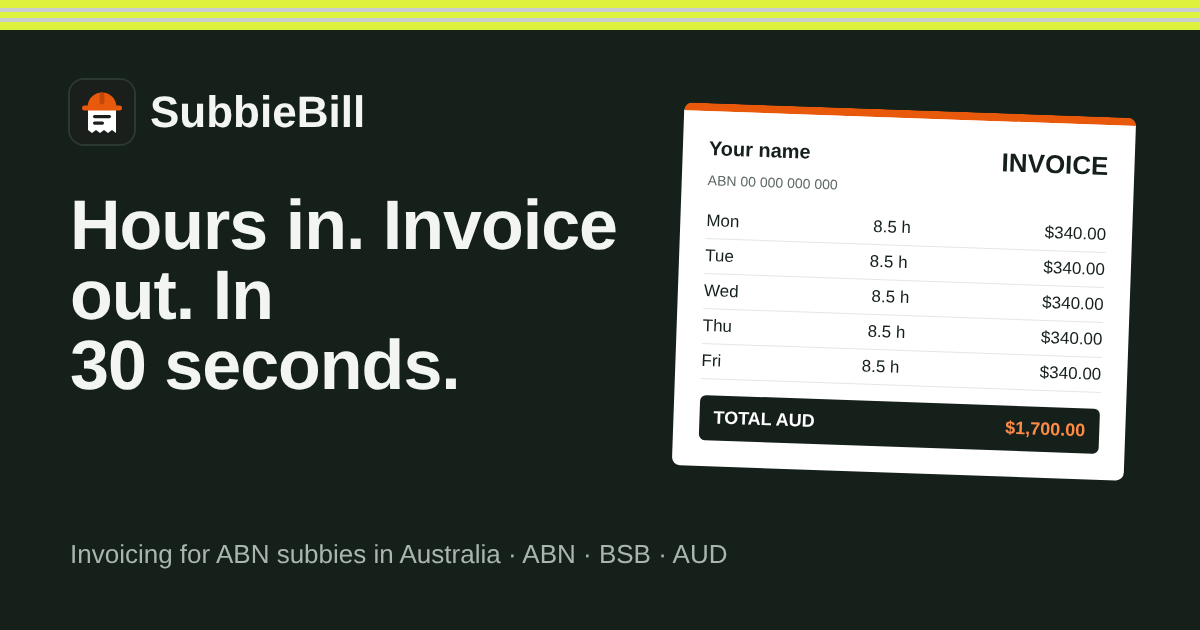
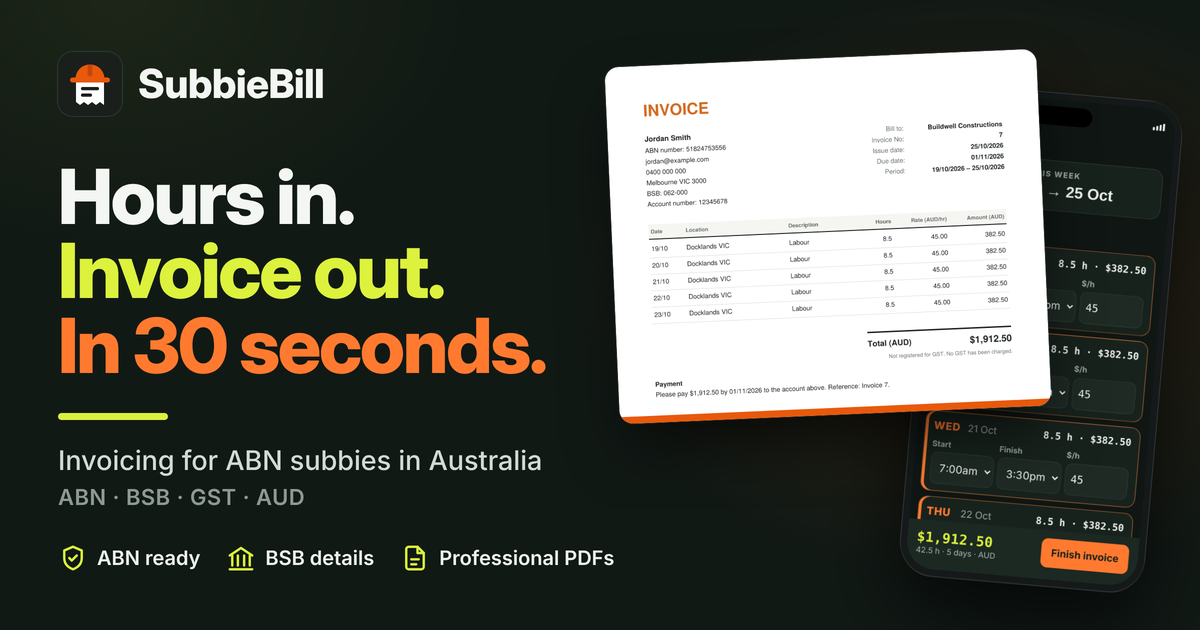
Add files via upload

diff --git a/gst-for-subcontractors.html b/gst-for-subcontractors.html
@@ -7,13 +7,13 @@
 <title>Do Subcontractors Charge GST in Australia? (Simple Guide) · SubbieBill</title>
 <meta name="description" content="When ABN subcontractors in Australia must register for GST, how to add GST to an invoice, and what changes if you are not registered. Simple examples.">
 <link rel="canonical" href="https://subbiebill.com/gst-for-subcontractors.html">
-<meta property="og:type" content="article"><meta property="og:title" content="Do Subcontractors Charge GST in Australia? (Simple Guide)"><meta property="og:description" content="When ABN subcontractors in Australia must register for GST, how to add GST to an invoice, and what changes if you are not registered. Simple examples."><meta property="og:url" content="https://subbiebill.com/gst-for-subcontractors.html"><meta property="og:image" content="https://subbiebill.com/og.png?v=2">
-<meta property="og:image:secure_url" content="https://subbiebill.com/og.png?v=2">
+<meta property="og:type" content="article"><meta property="og:title" content="Do Subcontractors Charge GST in Australia? (Simple Guide)"><meta property="og:description" content="When ABN subcontractors in Australia must register for GST, how to add GST to an invoice, and what changes if you are not registered. Simple examples."><meta property="og:url" content="https://subbiebill.com/gst-for-subcontractors.html"><meta property="og:image" content="https://subbiebill.com/og.png?v=3">
+<meta property="og:image:secure_url" content="https://subbiebill.com/og.png?v=3">
 <meta property="og:image:type" content="image/png">
 <meta property="og:image:width" content="1200">
 <meta property="og:image:height" content="630">
 <meta property="og:image:alt" content="SubbieBill: hours in, invoice out in 30 seconds">
-<meta name="twitter:image" content="https://subbiebill.com/og.png?v=2">
+<meta name="twitter:image" content="https://subbiebill.com/og.png?v=3">
[1 lines of base64/hex data omitted]
 <link rel="preconnect" href="https://fonts.googleapis.com"><link rel="preconnect" href="https://fonts.gstatic.com" crossorigin>
 <link rel="stylesheet" href="https://fonts.googleapis.com/css2?family=Archivo:wght@400;600;700;800&family=Big+Shoulders+Display:wght@900&family=IBM+Plex+Mono:wght@400;600&display=swap">

diff --git a/subbiebill-vs-excel-vs-xero.html b/subbiebill-vs-excel-vs-xero.html
@@ -7,13 +7,13 @@
 <title>SubbieBill vs Excel vs Xero for Subcontractor Invoices · SubbieBill</title>
 <meta name="description" content="An honest comparison of three ways to invoice as an ABN subcontractor in Australia: a spreadsheet template, Xero accounting software, or SubbieBill.">
 <link rel="canonical" href="https://subbiebill.com/subbiebill-vs-excel-vs-xero.html">
-<meta property="og:type" content="article"><meta property="og:title" content="SubbieBill vs Excel vs Xero for Subcontractor Invoices"><meta property="og:description" content="An honest comparison of three ways to invoice as an ABN subcontractor in Australia: a spreadsheet template, Xero accounting software, or SubbieBill."><meta property="og:url" content="https://subbiebill.com/subbiebill-vs-excel-vs-xero.html"><meta property="og:image" content="https://subbiebill.com/og.png?v=2">
-<meta property="og:image:secure_url" content="https://subbiebill.com/og.png?v=2">
+<meta property="og:type" content="article"><meta property="og:title" content="SubbieBill vs Excel vs Xero for Subcontractor Invoices"><meta property="og:description" content="An honest comparison of three ways to invoice as an ABN subcontractor in Australia: a spreadsheet template, Xero accounting software, or SubbieBill."><meta property="og:url" content="https://subbiebill.com/subbiebill-vs-excel-vs-xero.html"><meta property="og:image" content="https://subbiebill.com/og.png?v=3">
+<meta property="og:image:secure_url" content="https://subbiebill.com/og.png?v=3">
 <meta property="og:image:type" content="image/png">
 <meta property="og:image:width" content="1200">
 <meta property="og:image:height" content="630">
 <meta property="og:image:alt" content="SubbieBill: hours in, invoice out in 30 seconds">
-<meta name="twitter:image" content="https://subbiebill.com/og.png?v=2">
+<meta name="twitter:image" content="https://subbiebill.com/og.png?v=3">
[1 lines of base64/hex data omitted]
 <link rel="preconnect" href="https://fonts.googleapis.com"><link rel="preconnect" href="https://fonts.gstatic.com" crossorigin>
 <link rel="stylesheet" href="https://fonts.googleapis.com/css2?family=Archivo:wght@400;600;700;800&family=Big+Shoulders+Display:wght@900&family=IBM+Plex+Mono:wght@400;600&display=swap">

diff --git a/subcontractor-invoice.html b/subcontractor-invoice.html
@@ -7,13 +7,13 @@
 <title>How to Write an Invoice as a Subcontractor in Australia · SubbieBill</title>
 <meta name="description" content="Step-by-step guide for ABN subcontractors in Australia: what to put on your invoice, how to bill weekly hours, GST, payment terms and mistakes to avoid.">
 <link rel="canonical" href="https://subbiebill.com/subcontractor-invoice.html">
-<meta property="og:type" content="article"><meta property="og:title" content="How to Write an Invoice as a Subcontractor in Australia"><meta property="og:description" content="Step-by-step guide for ABN subcontractors in Australia: what to put on your invoice, how to bill weekly hours, GST, payment terms and mistakes to avoid."><meta property="og:url" content="https://subbiebill.com/subcontractor-invoice.html"><meta property="og:image" content="https://subbiebill.com/og.png?v=2">
-<meta property="og:image:secure_url" content="https://subbiebill.com/og.png?v=2">
+<meta property="og:type" content="article"><meta property="og:title" content="How to Write an Invoice as a Subcontractor in Australia"><meta property="og:description" content="Step-by-step guide for ABN subcontractors in Australia: what to put on your invoice, how to bill weekly hours, GST, payment terms and mistakes to avoid."><meta property="og:url" content="https://subbiebill.com/subcontractor-invoice.html"><meta property="og:image" content="https://subbiebill.com/og.png?v=3">
+<meta property="og:image:secure_url" content="https://subbiebill.com/og.png?v=3">
 <meta property="og:image:type" content="image/png">
 <meta property="og:image:width" content="1200">
 <meta property="og:image:height" content="630">
 <meta property="og:image:alt" content="SubbieBill: hours in, invoice out in 30 seconds">
-<meta name="twitter:image" content="https://subbiebill.com/og.png?v=2">
+<meta name="twitter:image" content="https://subbiebill.com/og.png?v=3">
[1 lines of base64/hex data omitted]
 <link rel="preconnect" href="https://fonts.googleapis.com"><link rel="preconnect" href="https://fonts.gstatic.com" crossorigin>
 <link rel="stylesheet" href="https://fonts.googleapis.com/css2?family=Archivo:wght@400;600;700;800&family=Big+Shoulders+Display:wght@900&family=IBM+Plex+Mono:wght@400;600&display=swap">

diff --git a/subcontractor-hourly-rate.html b/subcontractor-hourly-rate.html
@@ -7,13 +7,13 @@
 <title>How Much Should a Subcontractor Charge per Hour? (Australia) · SubbieBill</title>
 <meta name="description" content="A simple way for Australian ABN subcontractors to work out an hourly rate that covers tax, super, insurance, tools, unpaid days and time off.">
 <link rel="canonical" href="https://subbiebill.com/subcontractor-hourly-rate.html">
-<meta property="og:type" content="article"><meta property="og:title" content="How Much Should a Subcontractor Charge per Hour? (Australia)"><meta property="og:description" content="A simple way for Australian ABN subcontractors to work out an hourly rate that covers tax, super, insurance, tools, unpaid days and time off."><meta property="og:url" content="https://subbiebill.com/subcontractor-hourly-rate.html"><meta property="og:image" content="https://subbiebill.com/og.png?v=2">
-<meta property="og:image:secure_url" content="https://subbiebill.com/og.png?v=2">
+<meta property="og:type" content="article"><meta property="og:title" content="How Much Should a Subcontractor Charge per Hour? (Australia)"><meta property="og:description" content="A simple way for Australian ABN subcontractors to work out an hourly rate that covers tax, super, insurance, tools, unpaid days and time off."><meta property="og:url" content="https://subbiebill.com/subcontractor-hourly-rate.html"><meta property="og:image" content="https://subbiebill.com/og.png?v=3">
+<meta property="og:image:secure_url" content="https://subbiebill.com/og.png?v=3">
 <meta property="og:image:type" content="image/png">
 <meta property="og:image:width" content="1200">
 <meta property="og:image:height" content="630">
 <meta property="og:image:alt" content="SubbieBill: hours in, invoice out in 30 seconds">
-<meta name="twitter:image" content="https://subbiebill.com/og.png?v=2">
+<meta name="twitter:image" content="https://subbiebill.com/og.png?v=3">
[1 lines of base64/hex data omitted]
 <link rel="preconnect" href="https://fonts.googleapis.com"><link rel="preconnect" href="https://fonts.gstatic.com" crossorigin>
 <link rel="stylesheet" href="https://fonts.googleapis.com/css2?family=Archivo:wght@400;600;700;800&family=Big+Shoulders+Display:wght@900&family=IBM+Plex+Mono:wght@400;600&display=swap">

diff --git a/timesheet-template.html b/timesheet-template.html
@@ -7,13 +7,13 @@
 <title>Timesheet Template for Subcontractors in Australia (Free) · SubbieBill</title>
 <meta name="description" content="A simple daily timesheet for ABN subcontractors in Australia: start and finish times, unpaid breaks, site and hours, ready to turn into an invoice.">
 <link rel="canonical" href="https://subbiebill.com/timesheet-template.html">
-<meta property="og:type" content="article"><meta property="og:title" content="Timesheet Template for Subcontractors in Australia (Free)"><meta property="og:description" content="A simple daily timesheet for ABN subcontractors in Australia: start and finish times, unpaid breaks, site and hours, ready to turn into an invoice."><meta property="og:url" content="https://subbiebill.com/timesheet-template.html"><meta property="og:image" content="https://subbiebill.com/og.png?v=2">
-<meta property="og:image:secure_url" content="https://subbiebill.com/og.png?v=2">
+<meta property="og:type" content="article"><meta property="og:title" content="Timesheet Template for Subcontractors in Australia (Free)"><meta property="og:description" content="A simple daily timesheet for ABN subcontractors in Australia: start and finish times, unpaid breaks, site and hours, ready to turn into an invoice."><meta property="og:url" content="https://subbiebill.com/timesheet-template.html"><meta property="og:image" content="https://subbiebill.com/og.png?v=3">
+<meta property="og:image:secure_url" content="https://subbiebill.com/og.png?v=3">
 <meta property="og:image:type" content="image/png">
 <meta property="og:image:width" content="1200">
 <meta property="og:image:height" content="630">
 <meta property="og:image:alt" content="SubbieBill: hours in, invoice out in 30 seconds">
-<meta name="twitter:image" content="https://subbiebill.com/og.png?v=2">
+<meta name="twitter:image" content="https://subbiebill.com/og.png?v=3">
[1 lines of base64/hex data omitted]
 <link rel="preconnect" href="https://fonts.googleapis.com"><link rel="preconnect" href="https://fonts.gstatic.com" crossorigin>
 <link rel="stylesheet" href="https://fonts.googleapis.com/css2?family=Archivo:wght@400;600;700;800&family=Big+Shoulders+Display:wght@900&family=IBM+Plex+Mono:wght@400;600&display=swap">

diff --git a/abn-invoice-template.html b/abn-invoice-template.html
@@ -7,13 +7,13 @@
 <title>Free ABN Invoice Template for Subcontractors (Australia) · SubbieBill</title>
 <meta name="description" content="A simple ABN invoice template for Australian subcontractors and tradies, with every field you need: ABN, BSB, hours, rate, GST and payment terms.">
 <link rel="canonical" href="https://subbiebill.com/abn-invoice-template.html">
-<meta property="og:type" content="article"><meta property="og:title" content="Free ABN Invoice Template for Subcontractors (Australia)"><meta property="og:description" content="A simple ABN invoice template for Australian subcontractors and tradies, with every field you need: ABN, BSB, hours, rate, GST and payment terms."><meta property="og:url" content="https://subbiebill.com/abn-invoice-template.html"><meta property="og:image" content="https://subbiebill.com/og.png?v=2">
-<meta property="og:image:secure_url" content="https://subbiebill.com/og.png?v=2">
+<meta property="og:type" content="article"><meta property="og:title" content="Free ABN Invoice Template for Subcontractors (Australia)"><meta property="og:description" content="A simple ABN invoice template for Australian subcontractors and tradies, with every field you need: ABN, BSB, hours, rate, GST and payment terms."><meta property="og:url" content="https://subbiebill.com/abn-invoice-template.html"><meta property="og:image" content="https://subbiebill.com/og.png?v=3">
+<meta property="og:image:secure_url" content="https://subbiebill.com/og.png?v=3">
 <meta property="og:image:type" content="image/png">
 <meta property="og:image:width" content="1200">
 <meta property="og:image:height" content="630">
 <meta property="og:image:alt" content="SubbieBill: hours in, invoice out in 30 seconds">
-<meta name="twitter:image" content="https://subbiebill.com/og.png?v=2">
+<meta name="twitter:image" content="https://subbiebill.com/og.png?v=3">
[1 lines of base64/hex data omitted]
 <link rel="preconnect" href="https://fonts.googleapis.com"><link rel="preconnect" href="https://fonts.gstatic.com" crossorigin>
 <link rel="stylesheet" href="https://fonts.googleapis.com/css2?family=Archivo:wght@400;600;700;800&family=Big+Shoulders+Display:wght@900&family=IBM+Plex+Mono:wght@400;600&display=swap">

diff --git a/how-to-get-an-abn.html b/how-to-get-an-abn.html
@@ -7,13 +7,13 @@
 <title>How to Get an ABN in Australia (Free, in Minutes) · SubbieBill</title>
 <meta name="description" content="How subcontractors get an ABN in Australia: who can apply, what you need, where to apply for free, how long it takes, and what to do next.">
 <link rel="canonical" href="https://subbiebill.com/how-to-get-an-abn.html">
-<meta property="og:type" content="article"><meta property="og:title" content="How to Get an ABN in Australia (Free, in Minutes)"><meta property="og:description" content="How subcontractors get an ABN in Australia: who can apply, what you need, where to apply for free, how long it takes, and what to do next."><meta property="og:url" content="https://subbiebill.com/how-to-get-an-abn.html"><meta property="og:image" content="https://subbiebill.com/og.png?v=2">
-<meta property="og:image:secure_url" content="https://subbiebill.com/og.png?v=2">
+<meta property="og:type" content="article"><meta property="og:title" content="How to Get an ABN in Australia (Free, in Minutes)"><meta property="og:description" content="How subcontractors get an ABN in Australia: who can apply, what you need, where to apply for free, how long it takes, and what to do next."><meta property="og:url" content="https://subbiebill.com/how-to-get-an-abn.html"><meta property="og:image" content="https://subbiebill.com/og.png?v=3">
+<meta property="og:image:secure_url" content="https://subbiebill.com/og.png?v=3">
 <meta property="og:image:type" content="image/png">
 <meta property="og:image:width" content="1200">
 <meta property="og:image:height" content="630">
 <meta property="og:image:alt" content="SubbieBill: hours in, invoice out in 30 seconds">
-<meta name="twitter:image" content="https://subbiebill.com/og.png?v=2">
+<meta name="twitter:image" content="https://subbiebill.com/og.png?v=3">
[1 lines of base64/hex data omitted]
 <link rel="preconnect" href="https://fonts.googleapis.com"><link rel="preconnect" href="https://fonts.gstatic.com" crossorigin>
 <link rel="stylesheet" href="https://fonts.googleapis.com/css2?family=Archivo:wght@400;600;700;800&family=Big+Shoulders+Display:wght@900&family=IBM+Plex+Mono:wght@400;600&display=swap">

diff --git a/index.html b/index.html
@@ -17,13 +17,13 @@
 <meta property="og:locale" content="en_AU">
 <meta property="og:title" content="SubbieBill · Hours in. Invoice out. In 30 seconds.">
 <meta property="og:description" content="Invoicing for ABN subbies in Australia. Start, finish, and a PDF invoice with your ABN, BSB and total in AUD.">
-<meta property="og:image" content="https://subbiebill.com/og.png?v=2">
-<meta property="og:image:secure_url" content="https://subbiebill.com/og.png?v=2">
+<meta property="og:image" content="https://subbiebill.com/og.png?v=3">
+<meta property="og:image:secure_url" content="https://subbiebill.com/og.png?v=3">
 <meta property="og:image:type" content="image/png">
 <meta property="og:image:width" content="1200">
 <meta property="og:image:height" content="630">
 <meta property="og:image:alt" content="SubbieBill: hours in, invoice out in 30 seconds">
-<meta name="twitter:image" content="https://subbiebill.com/og.png?v=2">
+<meta name="twitter:image" content="https://subbiebill.com/og.png?v=3">
 <meta name="twitter:card" content="summary_large_image">
[1 lines of base64/hex data omitted]
 <link rel="canonical" href="https://subbiebill.com/">
